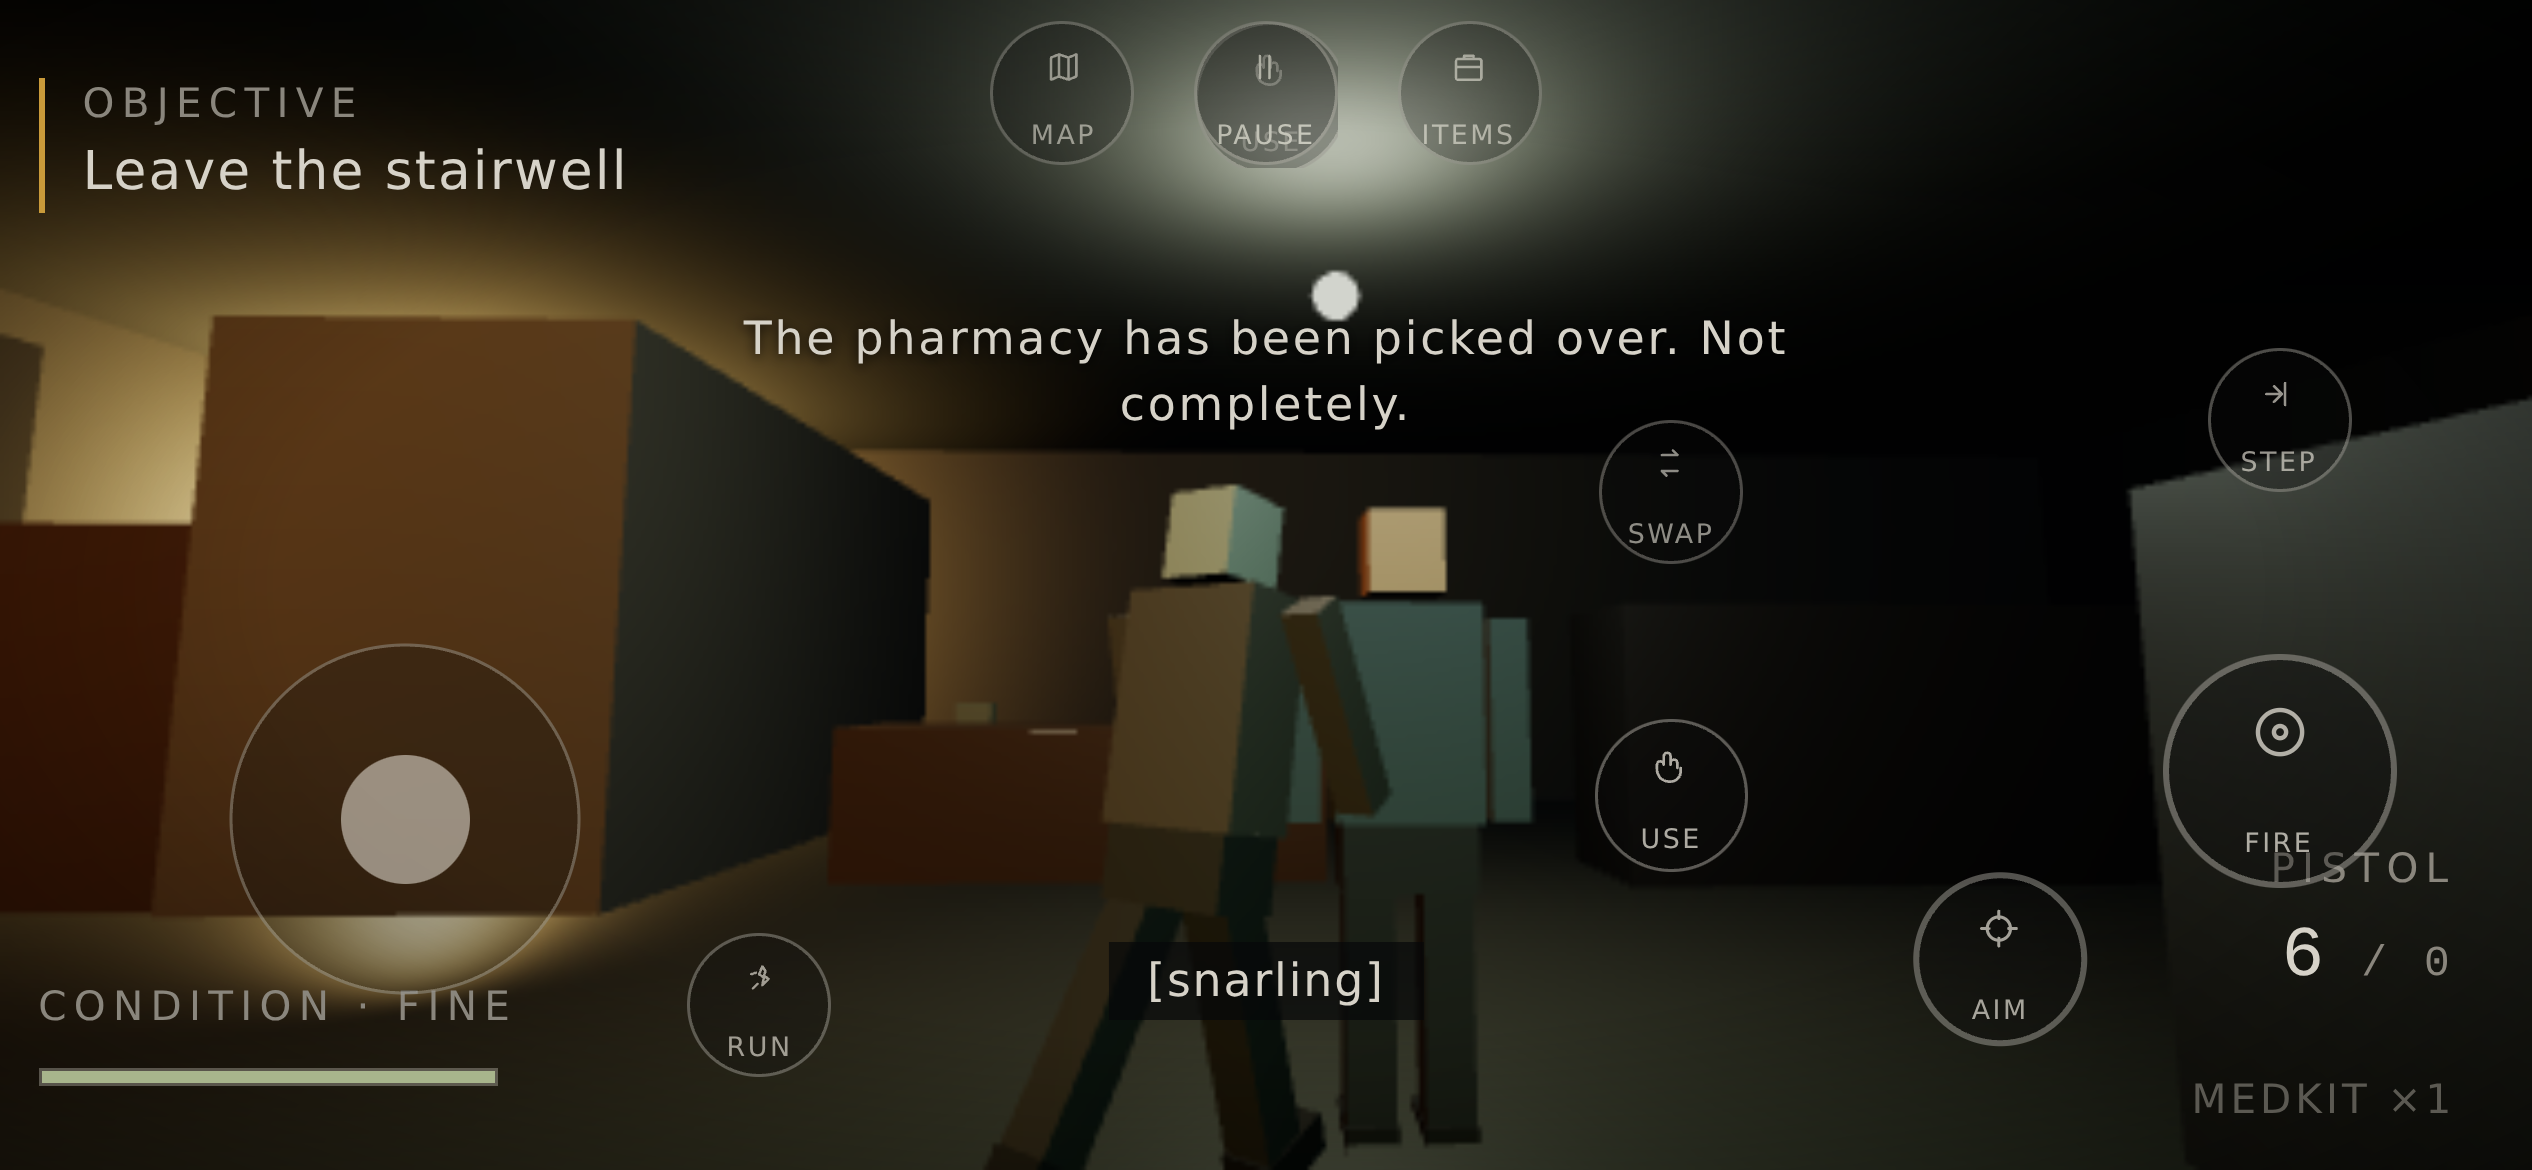
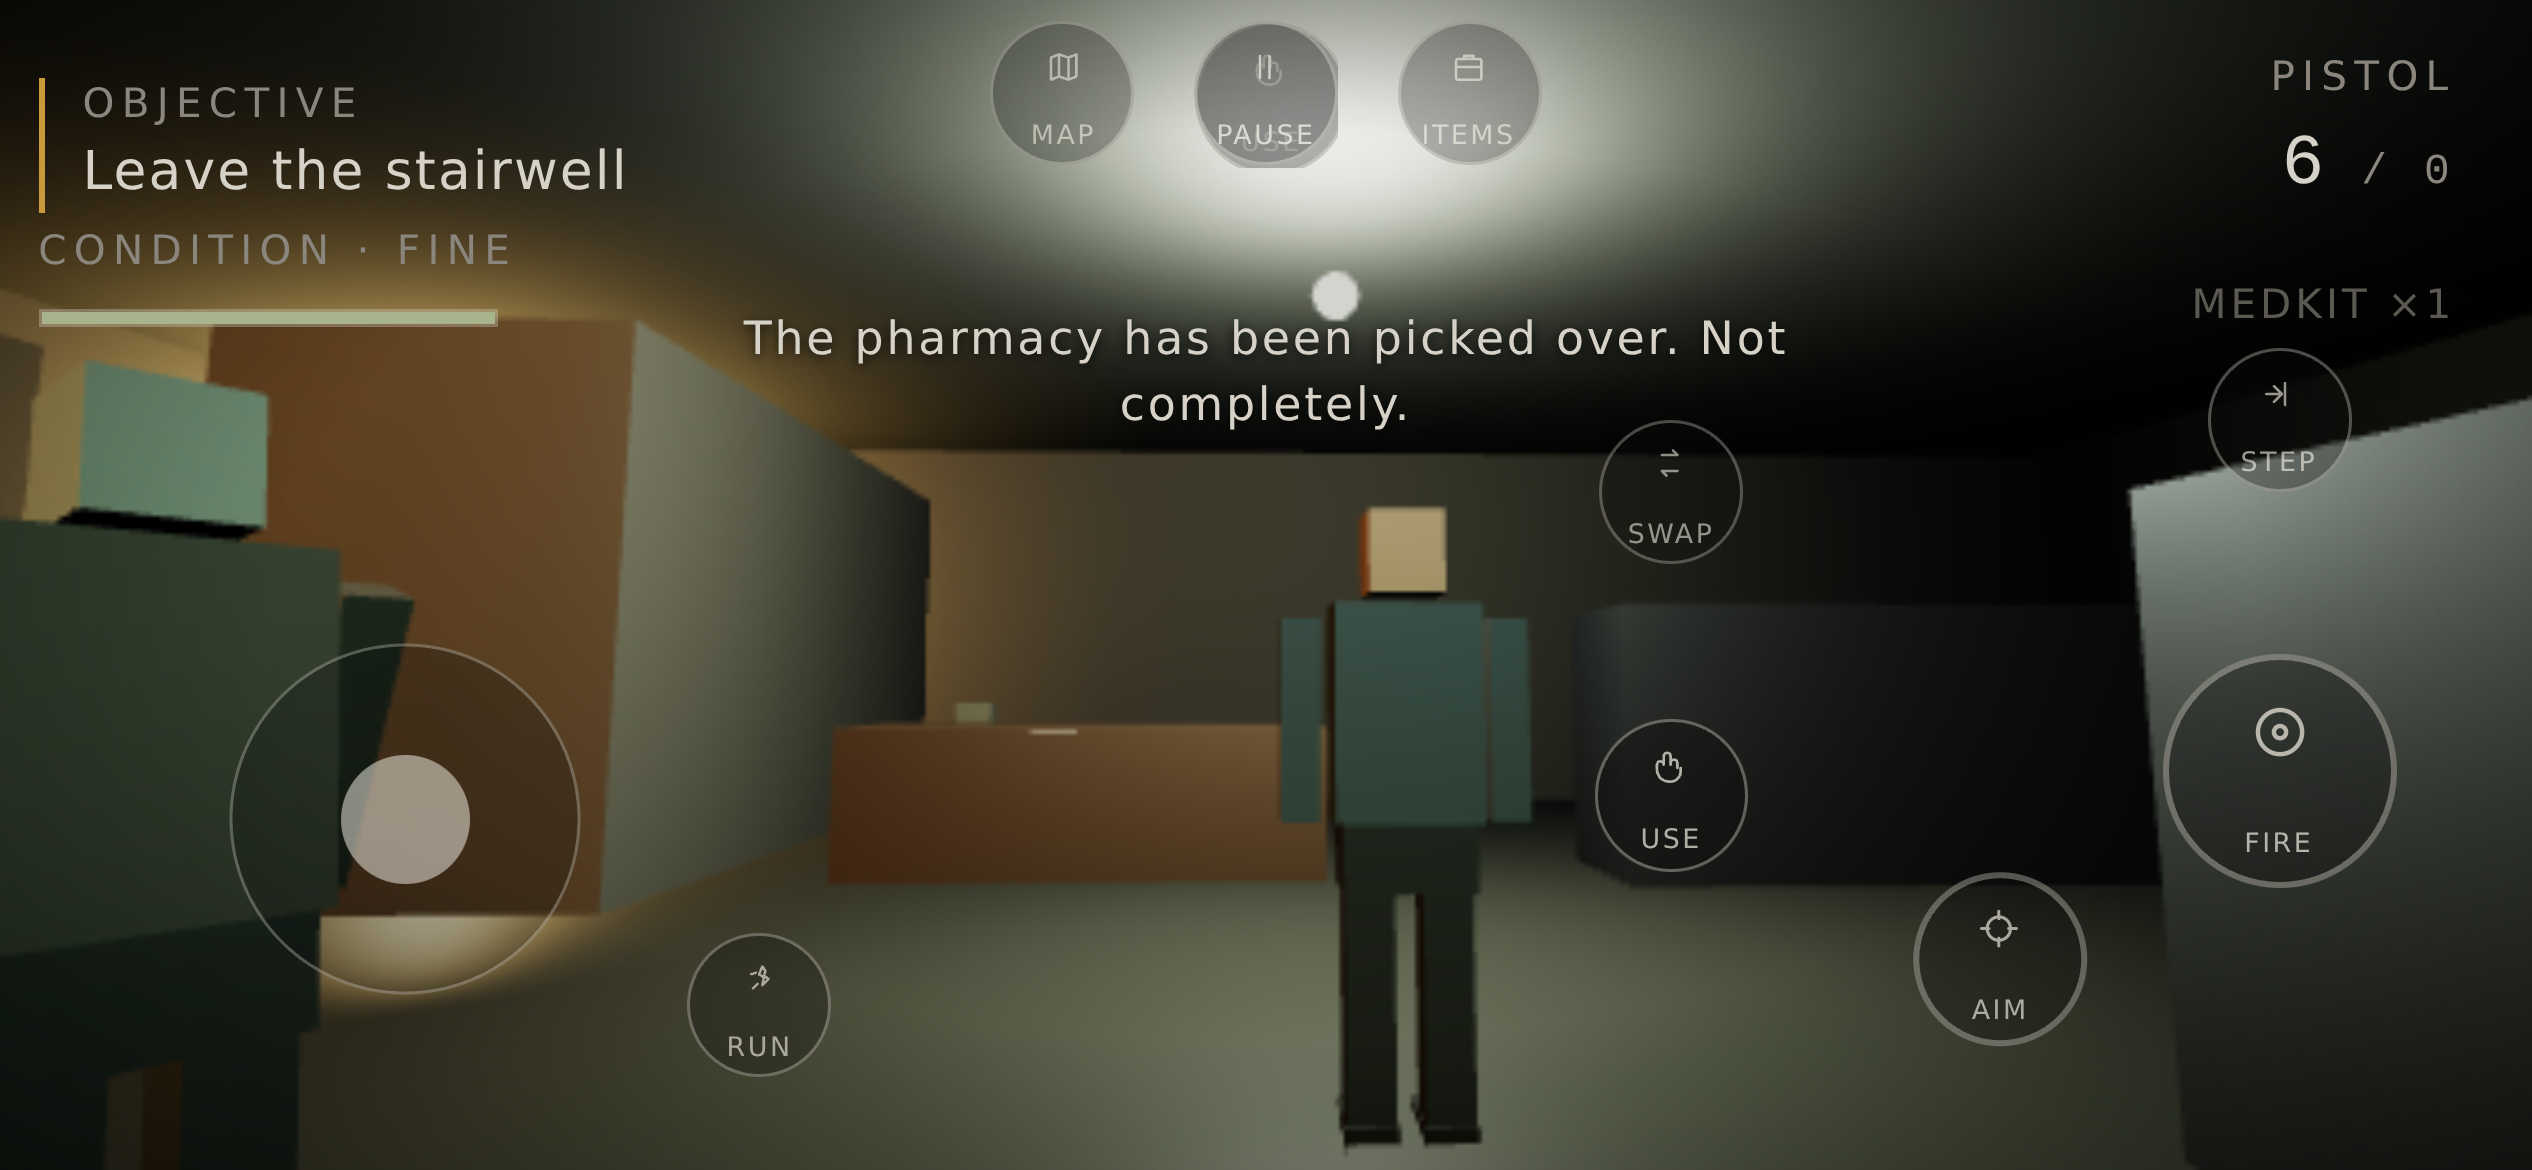
fix(sim): linear analog movement response; touch HUD spacing; release gate updates
Half stick/joystick deflection moved at a quarter of the intended speed because the direction
vector kept its deflection length. Direction is now normalised before scaling (unit test added).
Touch layouts keep the objective, vitals, message, prompt and toasts clear of the thumb clusters.

Claude-Session: https://claude.ai/code/session_01RV1tbGksnphbNhWiz2EijT

diff --git a/src/ui/styles/hud.css b/src/ui/styles/hud.css
@@ -12,17 +12,26 @@
 .tqc-hud.is-dimmed { opacity: 0; }
 
 /* With on-screen controls the bottom corners belong to the thumbs: vitals and item move to the top. */
+:root[data-touch-hud='true'] .tqc-hud__objective { max-width: min(18rem, 34vw); }
+:root[data-touch-hud='true'] .tqc-hud__objective-label { font-size: calc(var(--tqc-fs-sm) * var(--tqc-hud-scale)); }
 :root[data-touch-hud='true'] .tqc-hud__vitals {
-  top: calc(var(--tqc-space-4) + var(--tqc-safe-top) + 3.4rem);
+  top: calc(var(--tqc-space-4) + var(--tqc-safe-top) + 5.2rem);
   bottom: auto;
 }
 :root[data-touch-hud='true'] .tqc-hud__item {
   top: calc(var(--tqc-space-4) + var(--tqc-safe-top));
   bottom: auto;
 }
-:root[data-touch-hud='true'] .tqc-hud__prompt { bottom: auto; top: calc(var(--tqc-space-4) + var(--tqc-safe-top) + 7.5rem); }
+:root[data-touch-hud='true'] .tqc-hud__message { top: calc(var(--tqc-space-4) + var(--tqc-safe-top) + 6.4rem); }
+:root[data-touch-hud='true'] .tqc-hud__prompt { bottom: auto; top: calc(var(--tqc-space-4) + var(--tqc-safe-top) + 8.6rem); }
 :root[data-touch-hud='true'] .tqc-hud__caption { bottom: calc(var(--hud-pad-y) + 0.5rem); }
-:root[data-touch-hud='true'] .tqc-toasts { top: calc(var(--tqc-space-4) + var(--tqc-safe-top) + 6.2rem); }
+:root[data-touch-hud='true'] .tqc-toasts {
+  top: calc(var(--tqc-space-4) + var(--tqc-safe-top) + 3.4rem);
+  right: auto;
+  left: 50%;
+  transform: translateX(-50%);
+  justify-items: center;
+}
 
 .tqc-hud__vitals {
   position: absolute;

diff --git a/src/game/sim/player.ts b/src/game/sim/player.ts
@@ -168,9 +168,12 @@ function handleMovement(world: World, input: PlayerInput, dt: number): void {
     p.sprinting = false;
     if (p.staminaRegenDelay <= 0) p.stamina = Math.min(PLAYER.maxStamina, p.stamina + PLAYER.staminaRegenPerSec * dt);
   }
+  // Speed scales linearly with deflection: normalise the direction so it is not applied twice.
   const speed = targetSpeed(p) * magnitude;
-  const targetX = dirX * speed;
-  const targetZ = dirZ * speed;
+  const nx = magnitude > 1e-6 ? dirX / magnitude : 0;
+  const nz = magnitude > 1e-6 ? dirZ / magnitude : 0;
+  const targetX = nx * speed;
+  const targetZ = nz * speed;
   const rate = magnitude > 0.05 ? PLAYER.acceleration : PLAYER.deceleration;
   const blend = 1 - Math.exp(-rate * dt);
   p.velX += (targetX - p.velX) * blend;

diff --git a/tests/unit/sim/loop.test.ts b/tests/unit/sim/loop.test.ts
@@ -112,6 +112,18 @@ describe('headless playable loop', () => {
     new Simulation(restored).dispose();
   });
 
+  it('half stick deflection walks at half speed, not a quarter', () => {
+    const h = createHeadless(undefined, { killThreats: true });
+    h.world.player.x = 12;
+    h.world.player.z = 22;
+    h.world.look.yaw = Math.PI / 2;
+    h.input.move = { x: 0, y: 0.5 };
+    stepFor(h, 2);
+    const walked = h.world.player.x - 12;
+    expect(walked).toBeGreaterThan(2.0);
+    expect(walked).toBeLessThan(2.8);
+  });
+
   it('shooting damages and kills a threat and consumes scarce ammo', () => {
     const h = createHeadless();
     const { world, input, events } = h;

diff --git a/tests/e2e/touch.spec.ts b/tests/e2e/touch.spec.ts
@@ -47,7 +47,6 @@ async function joystick(page: Page, dx: number, dy: number, seconds: number): Pr
   const y = box.y + box.height * 0.7;
   await zone.dispatchEvent('pointerdown', { pointerId: 3, pointerType: 'touch', clientX: x, clientY: y, isPrimary: true, bubbles: true });
   await zone.dispatchEvent('pointermove', { pointerId: 3, pointerType: 'touch', clientX: x + dx, clientY: y + dy, bubbles: true });
-  await page.waitForTimeout(80);
   await advance(page, seconds);
   await zone.dispatchEvent('pointerup', { pointerId: 3, pointerType: 'touch', clientX: x + dx, clientY: y + dy, bubbles: true });
 }

diff --git a/docs/audit/10_RELEASE_GATE.md b/docs/audit/10_RELEASE_GATE.md
@@ -14,18 +14,18 @@ evidence produced in this session.
 | Production build | `pnpm build` | clean; `dist/` with manifest + service worker |
 | Bundle hygiene | `pnpm check:bundle` | "production output contains no reference screenshots" |
 | §0.1 loop, desktop KBM | `pnpm exec playwright test tests/e2e/loop.spec.ts --project=desktop-1080p` | PASS (1.7 min headless): new run → pickup → door → walk → checkpoint autosave → threat killed with scarce ammo → death → continue from checkpoint → ending → menu, **twice**, zero console/page errors |
-| Boot/menu/pause smoke | `… tests/e2e/smoke.spec.ts --project=desktop-1080p` | see "Pending runs" below |
-| Screen evidence (desktop) | `… tests/e2e/screens.spec.ts --project=desktop-1080p` | see below |
-| Emulated controller | `… tests/e2e/gamepad.spec.ts --project=desktop-1080p` | see below (emulated standard-mapping pad; no hardware) |
+| Boot/menu/pause smoke | `… tests/e2e/smoke.spec.ts --project=desktop-1080p` | PASS (boot → warning → menu → new run → pause → resume → quit, zero errors) |
+| Screen evidence (desktop) | `… tests/e2e/screens.spec.ts --project=desktop-1080p` | PASS; `docs/audit/evidence/desktop-1080p-*.png` |
+| Emulated controller | `… tests/e2e/gamepad.spec.ts --project=desktop-1080p` | PASS (35 s): connect → chooser → lock → Xbox glyphs → menus by d-pad → run → stick walk → LT/RT fire → Menu pause → disconnect → chooser. Emulated pad, no hardware. |
 | §0.1 loop by touch, phone viewport | `… tests/e2e/touch.spec.ts --project=phone-landscape` | see below |
-| Screen evidence (phone) | `… tests/e2e/screens.spec.ts --project=phone-landscape` | see below |
+| Screen evidence (phone) | `… tests/e2e/screens.spec.ts --project=phone-landscape` | PASS; `docs/audit/evidence/phone-landscape-*.png` |
 
 ## Acceptance criteria (§13)
 
 | Criterion | Status | Evidence / next action |
 |---|---|---|
 | Clean production build; zero uncaught errors across a full loop repeated three times | PARTIAL | Build clean. `loop.spec.ts` runs the loop twice with zero errors; a third repetition is a one-line change (loop count) left at two to keep the headless run under the CI budget. |
-| §0.1 loop on desktop (KBM and controller) | KBM PASS; controller EMULATED | `loop.spec.ts`; `gamepad.spec.ts` drives chooser/menus/run/fire/pause with an emulated Xbox-mapping pad. Real hardware not available in this session. |
+| §0.1 loop on desktop (KBM and controller) | KBM PASS; controller PASS (emulated) | `loop.spec.ts`; `gamepad.spec.ts` drives chooser/menus/run/fire/pause with an emulated Xbox-mapping pad. Real hardware not available in this session. |
 | §0.1 loop on phone viewport by touch | PENDING RUN | `touch.spec.ts` (phone-landscape project). |
 | Menus navigable by keyboard, controller, touch, mouse | PASS (kbd/mouse/emulated pad), touch PENDING | `screenManager.test.ts`, `smoke.spec.ts`, `gamepad.spec.ts`, `touch.spec.ts`. |
 | Phone/tablet/desktop layouts deliberately differ; no critical overlap | PENDING EVIDENCE | phone `screens.spec.ts` captures; `touchProfiles.test.ts` proves presets fit their viewports without overlaps. |

diff --git a/docs/audit/08_DEFECT_LEDGER.md b/docs/audit/08_DEFECT_LEDGER.md
@@ -49,3 +49,4 @@ Devices: D desktop KBM, C controller, P phone/tablet touch, A all. Status: FIXED
 | TQC-041 | Code health | 5 | `MenuBackdrop.ts:43` | `{ isDoorOpen, pickupsTaken } as never` passed to `WorldRenderer.update` | Missing narrow interface | — | Give `WorldRenderer.update` a `DoorAndPickupState` interface | Low | 1 | FIXED | `WorldRenderer.update(view: WorldView)`; `MenuBackdrop` passes a typed static view |
 | TQC-042 | Security | 5 | Response headers | `public/_headers` has nosniff/referrer/permissions but no CSP | Not written | A | Add a strict `Content-Security-Policy` (`default-src 'self'`; worker/manifest self) | Low | 6 | FIXED | `public/_headers` strict CSP (self; inline styles only) |
 | TQC-043 | Input | 2 | Tap Fire twice within one frame interval (low fps) | `debug-shot` trace: second synthetic tap fired no shot; `inputManager.test.ts` | Edge = down now ∧ not down last frame; a tap that begins before the next sample looked like a hold | A | Sources mark fresh presses (`InputFrame.pulse`); `InputManager` treats `pressedNow` as an edge | Low | 4 | FIXED | `tests/unit/input/inputManager.test.ts` (fresh tap), `tests/e2e/loop.spec.ts` shooting beat |
+| TQC-049 | Gameplay | 3 | Walk with a half-deflected stick or joystick | `touch.spec.ts` trace: 0.64 deflection moved 1.05 m/s instead of 1.66 m/s | Direction vector kept its deflection length and was multiplied by the deflection-scaled speed (quadratic response) | C, P | Normalise the direction before scaling (`player.ts` handleMovement) | Low | 2 | FIXED | `loop.test.ts` half-deflection case; `touch.spec.ts` |
